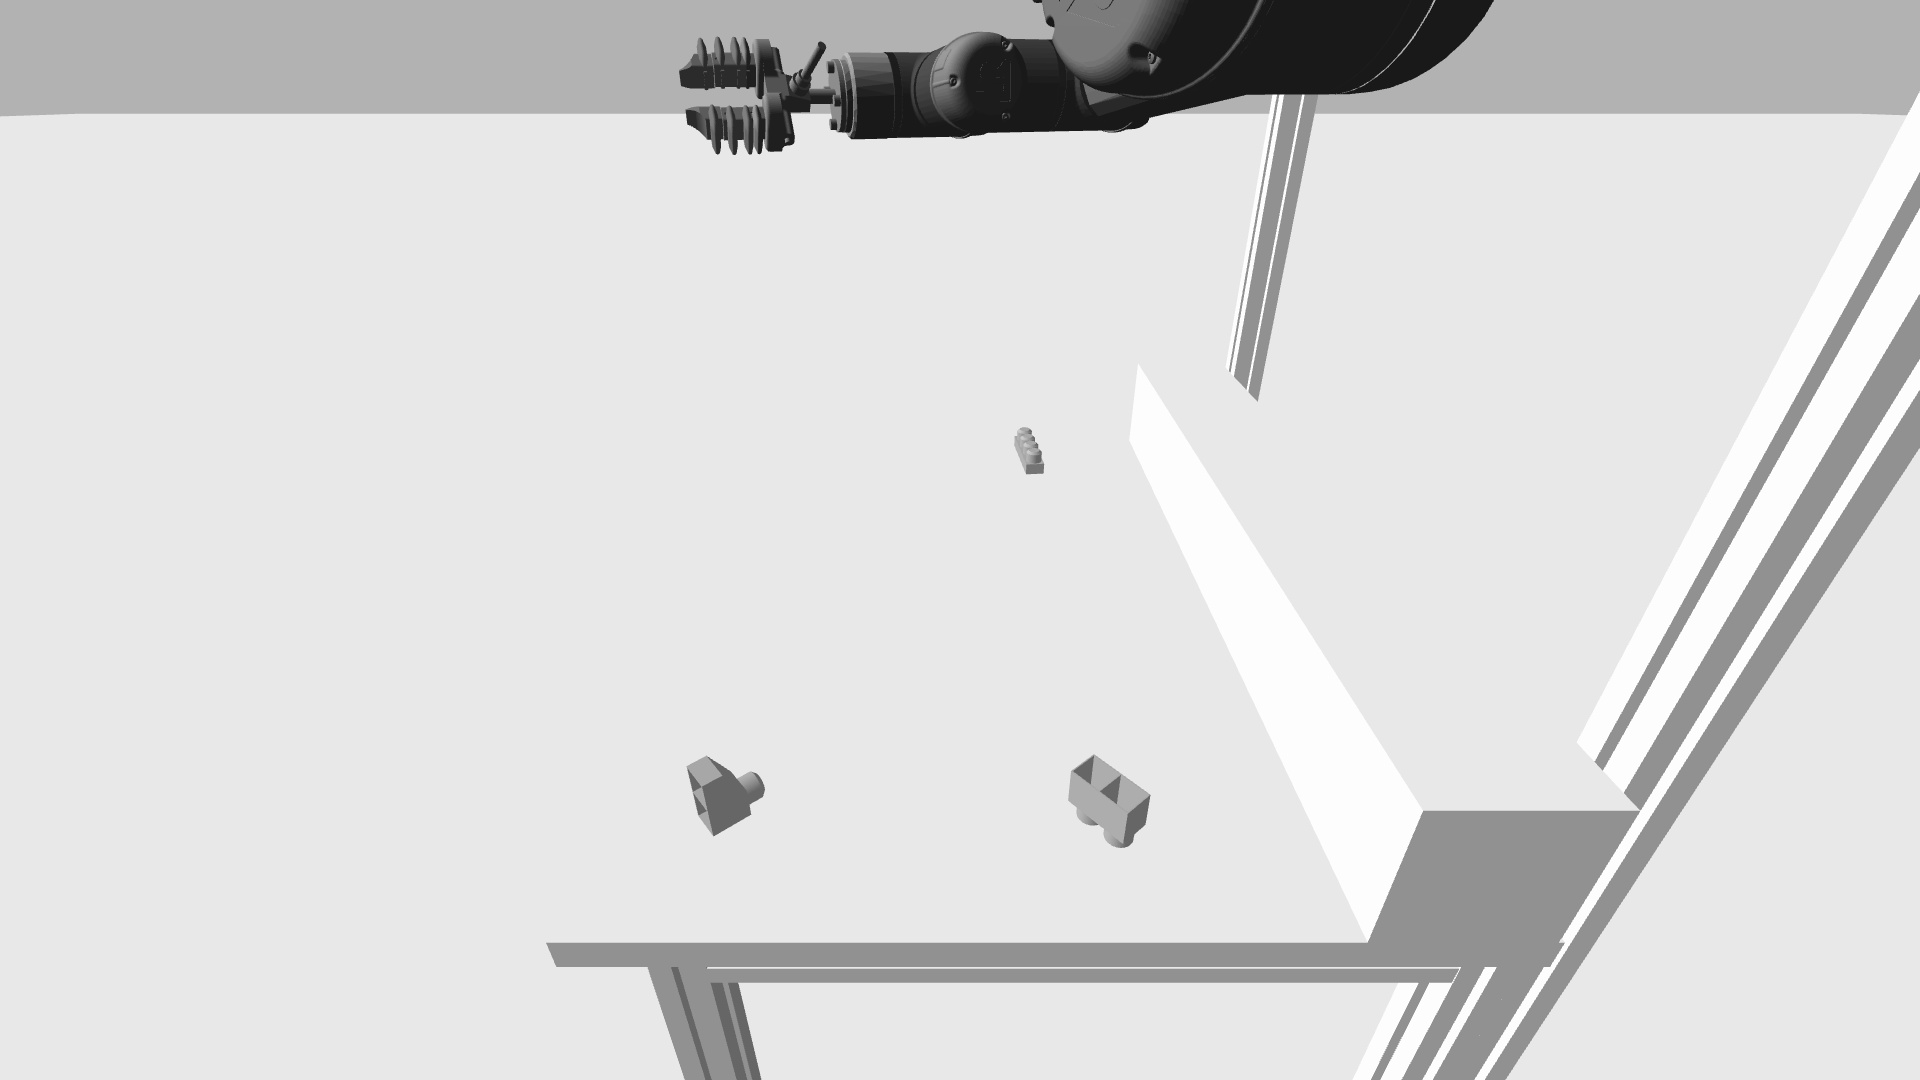
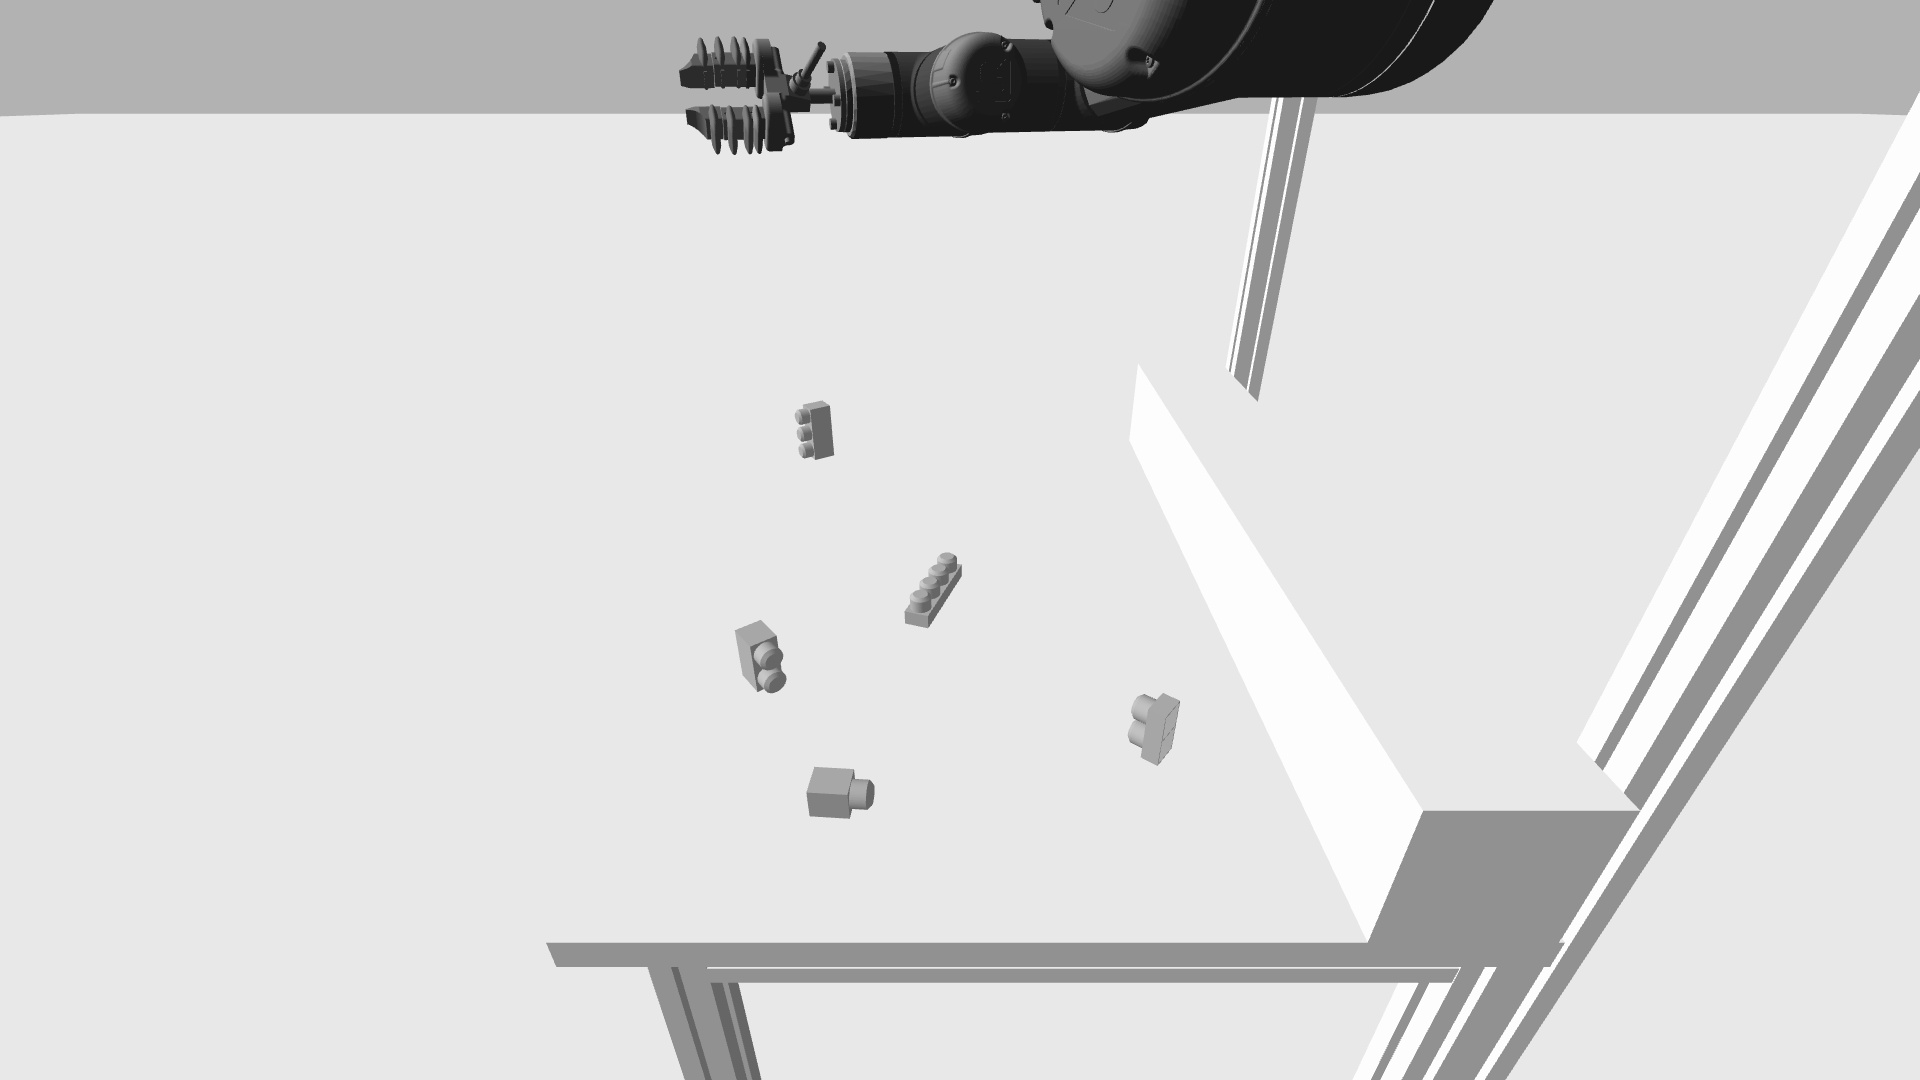
correzioni minori

diff --git a/locosim/robot_control/move_commands/src/joint_state_publisher.cpp b/locosim/robot_control/move_commands/src/joint_state_publisher.cpp
@@ -251,6 +251,7 @@ void JointStatePublisher::pickAndPlaceBlock(const Vector3 &finalP, RPY finalRpy,
     block.computeApproachAndLandPose(finalP(0), finalP(1), finalRpy, zOffset);
 
     std::cout << "------- moving to block --------" << std::endl;
+    setGripperContact(false);
     moveTo(block.getApproachPos() + (Vector3() << 0, 0, 0.15).finished(), block.getApproachRotm(), gripperPos.first);
     moveTo(block.getApproachPos(), block.getApproachRotm(), gripperPos.first, true, CurveType::LINE, 0.5);
 
@@ -406,7 +407,7 @@ void JointStatePublisher::setupBlockForRotation()
 void JointStatePublisher::rotateBlockStandardPosition(double xLandPose, double yLandPose, RPY finalRpy)
 {
     std::cout << "!! rotateBlockStandardPosition !!" << std::endl;
-
+    setGripperContact(true);
     std::pair<double, double> gripperPos = getGripPositions();
     setupBlockForRotation();
 
@@ -418,13 +419,14 @@ void JointStatePublisher::rotateBlockStandardPosition(double xLandPose, double y
         yLandPose = free_spot.y;
     }
     block.computeApproachAndLandPose(xLandPose, yLandPose, finalRpy, 0.0, 45);
-
+    
+    moveTo(block.getApproachPos() + (Vector3() << 0, 0, 0.15).finished(), block.getApproachRotm90(), gripperPos.first);
     moveTo(block.getApproachPos() + (Vector3() << 0, 0, 0.15).finished(), block.getApproachRotm(), gripperPos.first);
     moveTo(block.getApproachPos(), block.getApproachRotm(), gripperPos.first, true, CurveType::LINE, 0.3);
 
     std::cout << "------- gripping --------" << std::endl;
     gripping(gripperPos.second);
-
+    
     moveTo(block.getApproachPos() + (Vector3() << 0, 0, 0.15).finished(), block.getApproachRotm(), gripperPos.second, false, CurveType::LINE, 0.5);
 
     std::cout << "------- moving block to landing pos --------" << std::endl;
@@ -604,14 +606,16 @@ void JointStatePublisher::castle()
         xMin = std::min(x, xMin);
         yMin = std::min(y, yMin);
     }
-    for (auto b : presentBlocks)
+    xMin += -0.05; yMin += -0.05;
+    for (auto& b : presentBlocks)
     {
-        if (xMin < b.getPosition().x && b.getPosition().x < 1.0 && yMin < b.getPosition().y && b.getPosition().y < 0.8)
+        if (xMin < b.getPosition().x && yMin < b.getPosition().y)
         {
             block = b;
             block.update();
             Cartesian c = findFreeSpot(xMin, yMin);
             rotateBlockStandardPosition(c.x, c.y, block.getFinalRpy());
+            b = block;
         }
     }
     for (int i = 1; i <= n; i++)
@@ -668,7 +672,6 @@ Json::Value JointStatePublisher::readJson()
     return obj;
 }
 
-// TODO: quando mettiamo a posto il JAVAFX, scambiare i segni di 1 e 3
 double JointStatePublisher::getYaw(int rot)
 {
     if (rot == 0)
@@ -890,31 +893,31 @@ std::pair<int, int> JointStatePublisher::getGripPositions()
         switch (block.getClass())
         {
         case X1_Y1_Z2:
-            class2gripsize = std::pair<int, int>(70, 33);
+            class2gripsize = std::pair<int, int>(70, 31.5);
             break;
         case X1_Y2_Z1:
-            class2gripsize = std::pair<int, int>(70, 33);
+            class2gripsize = std::pair<int, int>(70, 31.5);
             break;
         case X1_Y2_Z2:
-            class2gripsize = std::pair<int, int>(70, 33);
+            class2gripsize = std::pair<int, int>(70, 31.5);
             break;
         case X1_Y2_Z2_CHAMFER:
-            class2gripsize = std::pair<int, int>(70, 33);
+            class2gripsize = std::pair<int, int>(70, 31.5);
             break;
         case X1_Y2_Z2_TWINFILLET:
-            class2gripsize = std::pair<int, int>(70, 33);
+            class2gripsize = std::pair<int, int>(70, 31.5);
             break;
         case X1_Y3_Z2:
-            class2gripsize = std::pair<int, int>(70, 33);
+            class2gripsize = std::pair<int, int>(70, 31.5);
             break;
         case X1_Y3_Z2_FILLET:
-            class2gripsize = std::pair<int, int>(70, 33);
+            class2gripsize = std::pair<int, int>(70, 31.5);
             break;
         case X1_Y4_Z1:
-            class2gripsize = std::pair<int, int>(70, 33);
+            class2gripsize = std::pair<int, int>(70, 31.5);
             break;
         case X1_Y4_Z2:
-            class2gripsize = std::pair<int, int>(70, 33);
+            class2gripsize = std::pair<int, int>(70, 31.5);
             break;
         case X2_Y2_Z2:
             class2gripsize = std::pair<int, int>(100, 75);

diff --git a/locosim/robot_control/move_commands/src/block.cpp b/locosim/robot_control/move_commands/src/block.cpp
@@ -45,6 +45,11 @@ Vector3 Block::getApproachPos()
     return approachPos.toVector();
 }
 
+Matrix3 Block::getApproachRotm90()
+{
+    return approachRotm90;
+}
+
 Matrix3 Block::getApproachRotm()
 {
     return approachRotm;
@@ -281,8 +286,8 @@ void Block::computeApproachAndLandPose(double xLandPose, double yLandPose, RPY f
         double landZPos;
         double theta = M_PI / 4;
 
-        Matrix3 apprachRotm90 = Algebra::eul2RotM(approachRPY.toVector());
-        approachRotm = apprachRotm90 * Algebra::rotY(theta);
+        approachRotm90 = Algebra::eul2RotM(approachRPY.toVector());
+        approachRotm = approachRotm90 * Algebra::rotY(theta);
 
         if (configuration == BlockConfiguration::UP)
         {
@@ -345,8 +350,8 @@ void Block::computeApproachAndLandPose(double xLandPose, double yLandPose, RPY f
         approachPos = position + correctionApproach45;
         std::cout << "APPROACH POS: " << approachPos << " !!!!!!!!!!!!!!!\n";
 
-        apprachRotm90 = Algebra::eul2RotM(approachRPY.toVector());
-        approachRotm = apprachRotm90 * Algebra::rotY(theta);
+        approachRotm90 = Algebra::eul2RotM(approachRPY.toVector());
+        approachRotm = approachRotm90 * Algebra::rotY(theta);
 
         if (xLandPose == -1 && yLandPose == -1)
             landPosNoCorrection = Cartesian(position.x, position.y, landZPos);

diff --git a/locosim/robot_control/move_commands/include/kinematic.h b/locosim/robot_control/move_commands/include/kinematic.h
@@ -454,12 +454,12 @@ public:
         trajectory.positions = temPosition;
 
         trajectory.times.push_back(0.0);
-        trajectory.velocities.push_back({vel, vel, vel, vel, vel, vel});
+        // trajectory.velocities.push_back({vel, vel, vel, vel, vel, vel});
         for (int i = 1; i < trajectory.positions.size(); i++)
         {
             dtheta = Algebra::diff(trajectory.positions[i], trajectory.positions[i - 1]);
             trajectory.times.push_back(trajectory.times[i - 1] + Algebra::max(Algebra::abs(dtheta)) / vel);
-            trajectory.velocities.push_back({vel, vel, vel, vel, vel, vel});
+            // trajectory.velocities.push_back({vel, vel, vel, vel, vel, vel});
         }
 
         return trajectory;

diff --git a/locosim/robot_control/move_commands/include/joint_state_publisher.h b/locosim/robot_control/move_commands/include/joint_state_publisher.h
@@ -119,7 +119,19 @@ public:
     Json::Value readJson();
     double getYaw(int rot);
     void registerBlocks(const vision::vision &visionResult);
-
+    void setGripperContact(bool set)
+    {
+        gazebo_ros_link_attacher::SetStatic req;
+        req.request.model_name = "ur5";
+        req.request.link_name = "hand_1_link";
+        req.request.set_static = set;
+        setStaticSrv.call(req);
+        req.request.model_name = "ur5";
+        req.request.link_name = "hand_2_link";
+        req.request.set_static = set;
+        setStaticSrv.call(req);
+    }
+    
     void setBlock(Block b);
     void updateJstate();
 };

diff --git a/locosim/robot_control/move_commands/include/algebra.h b/locosim/robot_control/move_commands/include/algebra.h
@@ -399,10 +399,16 @@ public:
         std::vector<Matrix3> slerp;
         Matrix3 rotm_m;
         std::complex<double> complex(0, 0);
-
+        
         complex.real(q_i(0)*q_f(0) + q_i(1)*q_f(1) + q_i(2)*q_f(2) + q_i(3)*q_f(3));
+
+        if (complex.real() < 0)
+        {
+            q_f(0)=-q_f(0); q_f(1)=-q_f(1); q_f(2)=-q_f(2); q_f(3)=-q_f(3);
+            complex.real(-complex.real());
+        }
+
         double angle = acos(complex).real();
-        std::cout << round(angle) << std::endl;
         double denom = sin(angle);
 
         for (double t : ls)

diff --git a/locosim/robot_control/move_commands/src/assignment_123.cpp b/locosim/robot_control/move_commands/src/assignment_123.cpp
@@ -34,9 +34,10 @@ int main(int argc, char **argv)
     ros::spinOnce();
     joint_state_publisher.updateJstate();
 
-    //joint_state_publisher.moveTo((Vector3() << 0.5, 0.7, -0.75).finished(), Algebra::eul2RotM((Vector3() << M_PI, 0.0, 0.0).finished()), 60.0);
     joint_state_publisher.homingProcedure(q_front);
     usleep(1500000);
+    
+    //joint_state_publisher.moveTo((Vector3() << 0.35, 0.35, -0.85).finished(), Algebra::eul2RotM((Vector3() << M_PI, 0.0, 0.0).finished()), 60.0);
     
     std::cout << "Register Blocks" << std::endl;
     ros::spinOnce();

diff --git a/locosim/robot_control/move_commands/include/constants.h b/locosim/robot_control/move_commands/include/constants.h
@@ -104,7 +104,7 @@ const std::string Constants::getModelState = "/gazebo/get_model_state";
 const std::string Constants::visionService = "vision_service";
 const std::string Constants::markerPub = "/vis";
 
-const std::string Constants::jsonOutput = "/home/rico/ros_ws/src/castle_build_path/output.json";
+const std::string Constants::jsonOutput = "/home/carro/ros_ws/src/castle_build_path/output.json";
 
 const Vector6 Constants::d = (Vector6() << D1, 0, 0, D4, D5, D6).finished();
 const Vector6 Constants::a = (Vector6() << 0, 0, A2, A3, 0, 0).finished();

diff --git a/locosim/robot_control/move_commands/include/block.h b/locosim/robot_control/move_commands/include/block.h
@@ -209,7 +209,8 @@ private:
      * Position on the desk
      */
     int quadrant;
-
+    
+    Matrix3 approachRotm90;
     Matrix3 approachRotm;
     Cartesian approachPos;
     Matrix3 landRotm;
@@ -231,6 +232,7 @@ public:
     std::string getName();
     Cartesian getPosition();
     Vector3 getApproachPos();
+    Matrix3 getApproachRotm90();
     Matrix3 getApproachRotm();
     Vector3 getLandPos();
     Matrix3 getLandRotm();

diff --git a/locosim/robot_control/lab_exercises/lab_palopoli/ur5_generic.py b/locosim/robot_control/lab_exercises/lab_palopoli/ur5_generic.py
@@ -327,7 +327,7 @@ def talker(p):
     p.switch_controller(p.available_controllers[0])
     # homing procedure
     if p.homing_flag:
-        p.homing_procedure(p.dt, 0.5, p.q_des, rate)
+        p.homing_procedure(p.dt, 1, p.q_des, rate)
 
     if p.control_mode == 'trajectory':
         p.switch_controller(p.available_controllers[1])
